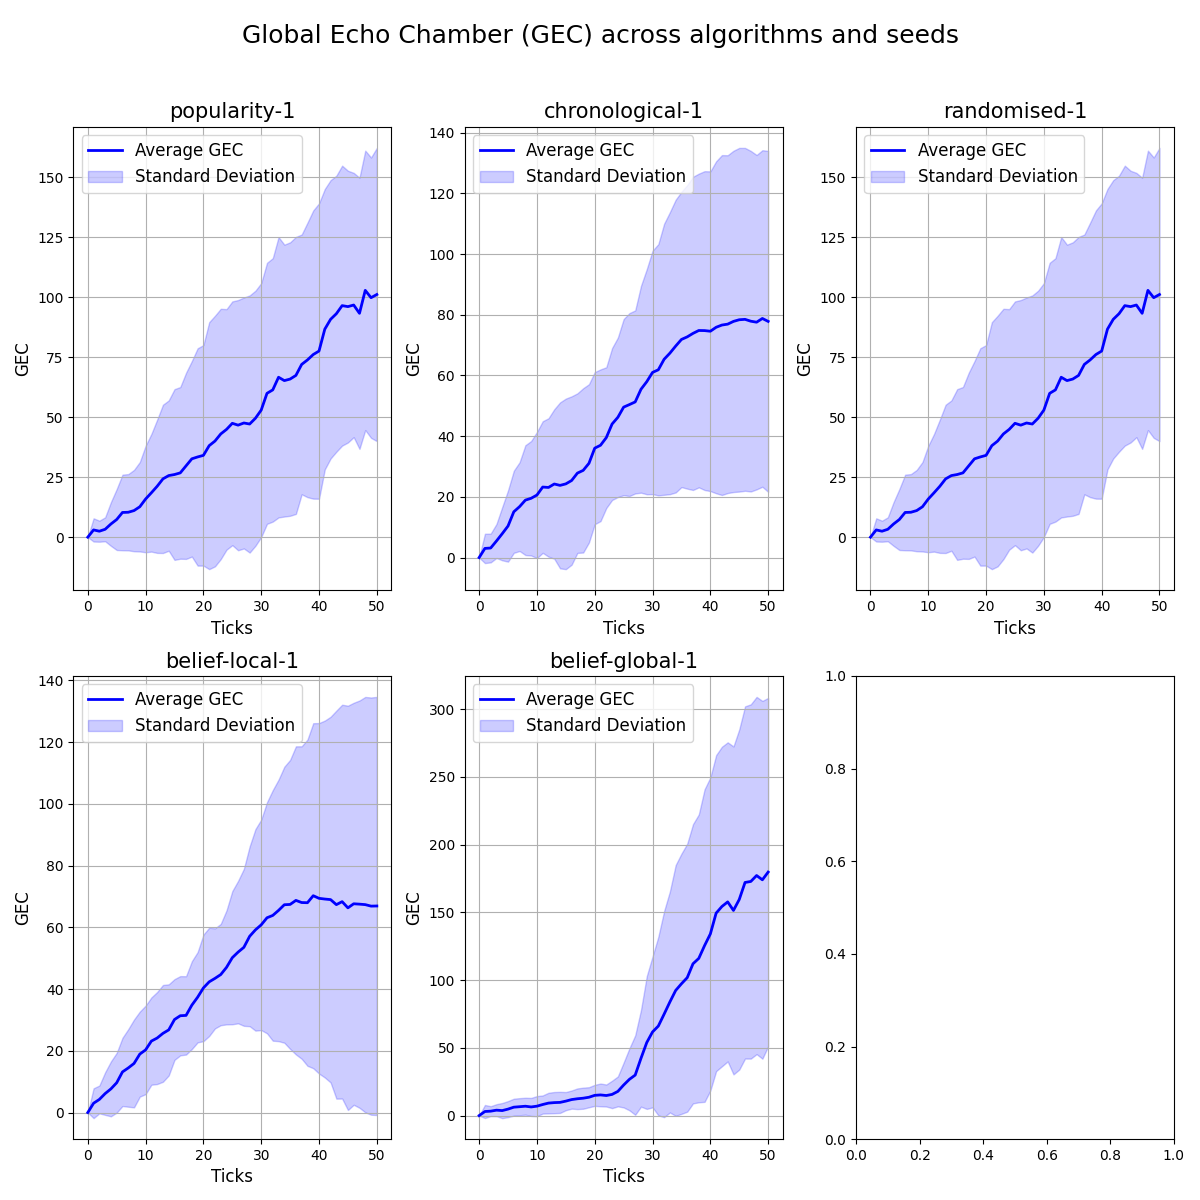
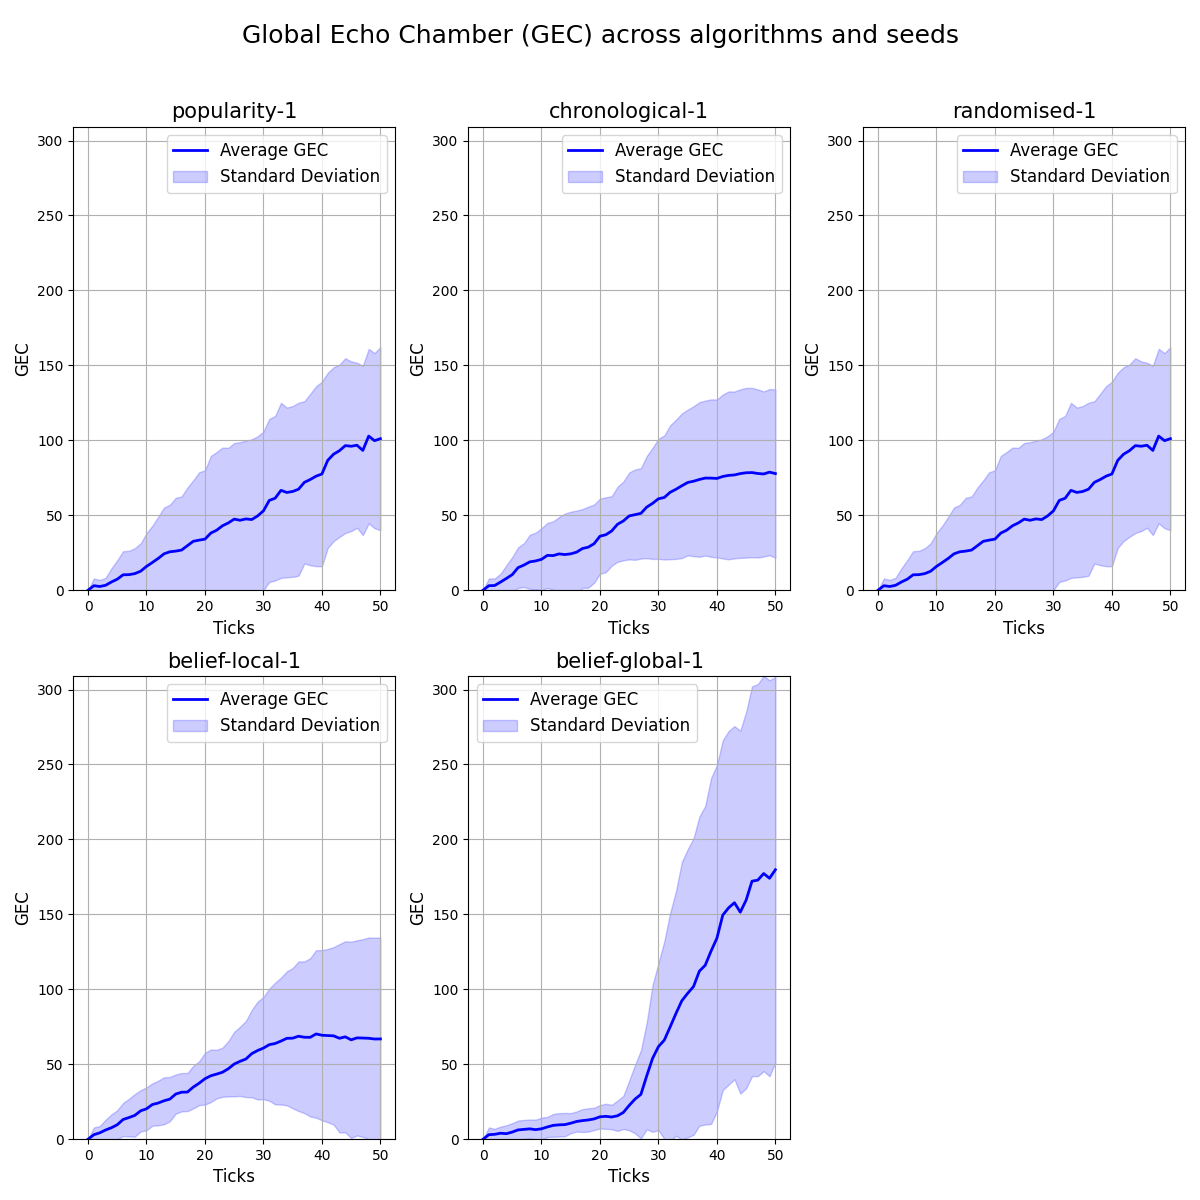
Python files and some graphs

diff --git a/analysis/belief-distribution.py b/analysis/belief-distribution.py
@@ -1,32 +1,76 @@
 import matplotlib.pyplot as plt
 import pandas as pd
+import numpy as np
 
-# SET THESE BEFORE RUNNING
-seed = ""
-algorithm = ""
-folder = f'../results/seed-{seed}/{algorithm}/'
+seeds = ["47822", "13523", "31238", "98424", "64001"]
 
-# Define the range of tick values
+# WHEN PICKING WHICH CHANGE THE FILE NAME
+# single algorithm
+algorithms = ["popularity-1", "chronological-1", "randomised-1", "belief-local-1", "belief-global-1"]
+
+# weighted algorithms
+# algorithms = ["belief-local-0.5-popularity-0.5", "belief-local-0.5-randomised-0.5", "belief-local-0.5-chronological-0.5",
+#               "belief-local-0.5-belief-global-0.5", "belief-global-0.5-popularity-0.5", "belief-global-0.5-randomised-0.5",
+#               "chronological-0.5-popularity-0.5", "chronological-0.5-randomised-0.5", "randomised-0.5-popularity-0.5", "all"]
+
+folder_base = f"../results/"
 ticks = range(10, 51, 10)  # 10, 20, 30, 40, 50
 
-# Create a figure with subplots (2 rows, 3 columns)
-fig, axes = plt.subplots(2, 3, figsize=(10, 5))  # 2 rows, 3 columns
-axes = axes.flatten()  # Flatten the 2D array of axes to make it easier to index
+# Create a figure and subplots for each algorithm (one row per algorithm)
+n_algorithms = len(algorithms)
+n_ticks = len(ticks)
+fig, axes = plt.subplots(n_algorithms, n_ticks,
+                         figsize=(15, 5 * n_algorithms))  # 1 row per algorithm, multiple columns for ticks
+axes = axes.flatten()  # Flatten the axes to make indexing easier
 
-# Loop through each file for the corresponding ticks
-for i, tick in enumerate(ticks):
-    file = folder + f"belief-{tick}.csv"
-    df = pd.read_csv(file)  # Assuming tab-separated values
+# Initialize tick index
+tick_idx = 0
 
-    # Plot on the corresponding axis
-    axes[i].hist(df['belief'], bins=10, color='skyblue', edgecolor='black')
-    axes[i].set_title(f'{tick} ticks')
-    axes[i].set_xlabel('Belief Value')
-    axes[i].set_ylabel('Frequency')
-    axes[i].grid(False)
+# Loop through each algorithm
+for algorithm in algorithms:
+    # Loop through each tick
+    for i, tick in enumerate(ticks):
+        all_beliefs = []
 
-fig.suptitle(f'[{seed}] {algorithm}', fontsize=16)
-plt.tight_layout()
+        # Loop through seeds and load the data for the current algorithm and tick
+        for seed in seeds:
+            folder = f'{folder_base}/seed-{seed}/{algorithm}/'
+            file = folder + f"belief-{tick}.csv"
+            df = pd.read_csv(file)
+
+            # Collect belief data
+            all_beliefs.append(df['belief'].values)
+
+        # Convert to a NumPy array for easier manipulation
+        all_beliefs = np.array(all_beliefs)
+
+        # Calculate the average belief distribution across seeds
+        avg_beliefs = np.mean(all_beliefs, axis=0)
+
+        # Plot on the corresponding subplot (for the current algorithm and tick)
+        ax = axes[tick_idx]
+        ax.hist(avg_beliefs, bins=10, color='skyblue', edgecolor='black')
+        ax.set_title(f'{tick} ticks', fontsize=12)
+        ax.set_xlabel('Belief Value', fontsize=10)
+        ax.set_ylabel('Frequency', fontsize=10)
+        ax.grid(False)
+
+        # Increment the tick index
+        tick_idx += 1
+
+    # After finishing all ticks for this algorithm, add a title for the algorithm itself
+    # We calculate the position of the algorithm title in the middle of the row of subplots
+    start_idx = tick_idx - n_ticks  # The starting index of this algorithm's subplots
+    end_idx = tick_idx - 1  # The last subplot index for this algorithm
+    algorithm_title_pos = (start_idx + end_idx) / 2  # The middle subplot index for title placement
+    axes[int(algorithm_title_pos)].set_title(f'{algorithm}', fontsize=14, fontweight='bold', loc='center')
+
+# Add a super title and adjust layout
+fig.suptitle(f'Belief Distributions Across Algorithms and Seeds', fontsize=16)
+plt.tight_layout(rect=[0, 0, 1, 0.96])  # To make room for the super title
+
+# Save the figure
+plt.savefig(f'{folder_base}/single-algo-belief_dist.png')
 
 # Show the plot
-plt.savefig(folder + "belief-distribution.png")
+plt.show()

diff --git a/analysis/gec.py b/analysis/gec.py
@@ -4,12 +4,21 @@ import matplotlib.pyplot as plt
 from io import StringIO
 
 seeds = ["47822", "13523", "31238", "98424", "64001"]
+
+# WHEN PICKING WHICH CHANGE THE FILE NAME
+# a) single algorithm
 algorithms = ["popularity-1", "chronological-1", "randomised-1", "belief-local-1", "belief-global-1"]
 
+# OR b) weighted algorithms
+# algorithms = ["belief-local-0.5-popularity-0.5", "belief-local-0.5-randomised-0.5", "belief-local-0.5-chronological-0.5",
+#               "belief-local-0.5-belief-global-0.5", "belief-global-0.5-popularity-0.5", "belief-global-0.5-randomised-0.5",
+#               "chronological-0.5-popularity-0.5", "chronological-0.5-randomised-0.5", "randomised-0.5-popularity-0.5", "all"]
+
+folder_base = "../results/"
 # Determine the number of rows and columns for the grid
 n_algorithms = len(algorithms)
-n_cols = 3  
-n_rows = (n_algorithms + n_cols - 1) // n_cols  
+n_cols = 3  # Number of columns in the grid
+n_rows = (n_algorithms + n_cols - 1) // n_cols  # Calculate the required number of rows
 
 # Create a figure and subplots (a grid of subplots)
 fig, axes = plt.subplots(n_rows, n_cols, figsize=(12, 6 * n_rows))
@@ -17,13 +26,17 @@ fig, axes = plt.subplots(n_rows, n_cols, figsize=(12, 6 * n_rows))
 # Flatten the axes array if it's a 2D grid
 axes = axes.flatten()
 
+# Initialize lists to store mean and std values for determining global y-limits
+all_gec_means = []
+all_gec_std = []
+
 # Loop through each algorithm and its corresponding axis
 for ax, algorithm in zip(axes, algorithms):
     gec_runs = []
 
     # Read and process the GEC data for each algorithm
     for seed in seeds:
-        folder = f'../results/seed-{seed}/{algorithm}/'
+        folder = f'{folder_base}/seed-{seed}/{algorithm}/'
         with open(folder + "gec.csv", 'r') as file:
             lines = file.readlines()
 
@@ -46,6 +59,10 @@ for ax, algorithm in zip(axes, algorithms):
     gec_std = np.std(gec_data, axis=0)
     gec_mean = np.mean(gec_data, axis=0)
 
+    # Append the mean and std values to the lists for determining global y-limits
+    all_gec_means.append(gec_mean)
+    all_gec_std.append(gec_std)
+
     # Plot on the corresponding axis
     ax.plot(range(0, 51), gec_mean, label="Average GEC", color="blue", linewidth=2)
     ax.fill_between(
@@ -62,12 +79,28 @@ for ax, algorithm in zip(axes, algorithms):
     ax.grid(True)
     ax.legend(fontsize=12)
 
+# Convert lists to numpy arrays for easier manipulation
+all_gec_means = np.array(all_gec_means)
+all_gec_std = np.array(all_gec_std)
+
+# Calculate global y-limits
+y_min = 0
+y_max = np.max(all_gec_means + all_gec_std)  # Max of gec_mean + gec_std
+
+# Set the same y-limits for all subplots
+for ax in axes:
+    ax.set_ylim(y_min, y_max)  # Set y-axis limits based on calculated values
+
+# Remove any unused subplots (axes that don't correspond to an algorithm)
+for i in range(n_algorithms, len(axes)):
+    fig.delaxes(axes[i])
+
 # Adjust layout to prevent overlap
 plt.suptitle("Global Echo Chamber (GEC) across algorithms and seeds", fontsize=18)
 plt.tight_layout(rect=[0, 0, 1, 0.96])
 
 # Save the figure with all subplots
-plt.savefig('../results/single-algo-gec.png')
+plt.savefig(f'{folder_base}/single-algo-gec.png')
 
 # Show the plot
 plt.show()

diff --git a/analysis/sd-opinion-sd.py b/analysis/sd-opinion-sd.py
@@ -1,0 +1,91 @@
+import pandas as pd
+import numpy as np
+import matplotlib.pyplot as plt
+from pathlib import Path
+
+seeds = ["47822", "13523", "31238", "98424", "64001"]
+
+# WHEN PICKING WHICH CHANGE THE FILE NAME
+# a) single algorithm
+algorithms = ["popularity-1", "chronological-1", "randomised-1", "belief-local-1", "belief-global-1"]
+
+# OR b) weighted algorithms
+# algorithms = ["belief-local-0.5-popularity-0.5", "belief-local-0.5-randomised-0.5", "belief-local-0.5-chronological-0.5",
+#               "belief-local-0.5-belief-global-0.5", "belief-global-0.5-popularity-0.5", "belief-global-0.5-randomised-0.5",
+#               "chronological-0.5-popularity-0.5", "chronological-0.5-randomised-0.5", "randomised-0.5-popularity-0.5", "all"]
+
+ticks = [10, 20, 30, 40, 50]
+folder_base = "../results/"
+
+# Initialize results container
+algorithm_results = {}
+
+# Loop through algorithms
+for algorithm in algorithms:
+    tick_results = {tick: [] for tick in ticks}
+
+    # Loop through seeds
+    for seed in seeds:
+        folder = Path(f"{folder_base}/seed-{seed}/{algorithm}/")
+
+        # Loop through tick files
+        for tick in ticks:
+            file = folder / f"opinion-sd-{tick}.csv"
+
+            # Read the data
+            if file.exists():
+                df = pd.read_csv(file)
+                tick_results[tick].append(df['opinion-sd'].values)
+
+    # Calculate mean and std for each tick
+    algorithm_results[algorithm] = {
+        tick: {
+            "mean": np.mean(tick_results[tick], axis=0),
+            "std": np.std(tick_results[tick], axis=0)
+        }
+        for tick in ticks
+    }
+
+# Calculate the number of rows needed for 3 columns
+ncols = 3
+nrows = int(np.ceil(len(algorithms) / ncols))
+
+# Create the figure and axes
+fig, axes = plt.subplots(nrows=nrows, ncols=ncols, figsize=(16, nrows * 4), sharex=True)
+fig.suptitle("Opinion SD Across Seeds for Each Algorithm", fontsize=16, fontweight='bold')
+
+# Flatten the axes for easier iteration (handles cases where nrows > 1)
+axes = axes.flatten()
+
+# Plot data for each algorithm
+for i, (algorithm, results) in enumerate(algorithm_results.items()):
+    means = [results[tick]["mean"].mean() for tick in ticks]  # Mean across turtles
+    stds = [results[tick]["std"].mean() for tick in ticks]    # Mean std across turtles
+
+    ax = axes[i]
+    ax.plot(ticks, means, label=f"{algorithm} Mean", marker='o', color='blue')
+    ax.fill_between(
+        ticks,
+        np.array(means) - np.array(stds),
+        np.array(means) + np.array(stds),
+        color='blue',
+        alpha=0.2,
+        label=f"{algorithm} Mean ± SD"
+    )
+    ax.set_title(f"{algorithm}", fontsize=14)
+    ax.set_ylim(0, 1)
+    ax.set_xlabel("Ticks", fontsize=12)
+    ax.set_ylabel("Opinion SD", fontsize=12)
+    ax.set_xticks(ticks)
+    ax.legend()
+    ax.grid(False)
+
+# Remove any empty subplots (if len(algorithms) is not a multiple of 3)
+for j in range(i + 1, len(axes)):  # `i` will now always be defined
+    fig.delaxes(axes[j])
+
+# Adjust layout
+plt.tight_layout(rect=[0, 0, 1, 0.96])
+plt.savefig(f'{folder_base}/weighted-algo-sd-opinion-sd.png')
+plt.show()
+

diff --git a/analysis/purity.py b/analysis/purity.py
@@ -1,0 +1,82 @@
+import pandas as pd
+import numpy as np
+import matplotlib.pyplot as plt
+from io import StringIO
+
+seeds = ["47822", "13523", "31238", "98424", "64001"]
+
+# WHEN PICKING WHICH CHANGE THE FILE NAME
+# a) single algorithm
+algorithms = ["popularity-1", "chronological-1", "randomised-1", "belief-local-1", "belief-global-1"]
+
+# OR b) weighted algorithms
+# algorithms = ["belief-local-0.5-popularity-0.5", "belief-local-0.5-randomised-0.5", "belief-local-0.5-chronological-0.5",
+#               "belief-local-0.5-belief-global-0.5", "belief-global-0.5-popularity-0.5", "belief-global-0.5-randomised-0.5",
+#               "chronological-0.5-popularity-0.5", "chronological-0.5-randomised-0.5", "randomised-0.5-popularity-0.5", "all"]
+
+folder_base = '../results/'
+
+# Initialize container for results
+belief_purity_results = {}
+
+# Loop through algorithms to process data
+for algorithm in algorithms:
+    purity_data_list = []
+
+    for seed in seeds:
+        folder = f'{folder_base}/seed-{seed}/{algorithm}/'
+
+        # Process Belief Purity data
+        with open(folder + "belief-purity.csv", 'r') as file:
+            lines = file.readlines()
+        data_start_line = next(i for i, line in enumerate(lines) if line.strip().startswith('"x","y"'))
+        purity_df = pd.read_csv(StringIO(''.join(lines[data_start_line:])))
+        purity_data_list.append({
+            'mean': purity_df['y'].values,
+            '+sd': purity_df['y.1'].values,
+            '-sd': purity_df['y.2'].values,
+        })
+
+    # Average the purity data across seeds
+    belief_purity_results[algorithm] = {
+        'mean': np.mean([p['mean'] for p in purity_data_list], axis=0),
+        '+sd': np.mean([p['+sd'] for p in purity_data_list], axis=0),
+        '-sd': np.mean([p['-sd'] for p in purity_data_list], axis=0),
+    }
+
+# Plot the averaged results in subplots
+n_algorithms = len(algorithms)
+n_cols = 3  # Number of columns for subplots
+n_rows = (n_algorithms + n_cols - 1) // n_cols  # Calculate rows based on total algorithms
+
+fig, axes = plt.subplots(n_rows, n_cols, figsize=(15, 5 * n_rows), sharex=True, sharey=True)
+axes = axes.flatten()  # Flatten the axes array for easy indexing
+
+# Plot Belief Purity for each algorithm
+for i, (algorithm, data) in enumerate(belief_purity_results.items()):
+    ax = axes[i]
+    ticks = np.arange(len(data['mean']))
+    ax.plot(ticks, data['mean'], label='Mean', linewidth=2, color='blue')
+    ax.fill_between(
+        ticks,
+        data['+sd'],
+        data['-sd'],
+        alpha=0.2,
+        color='blue',
+        label='Mean ± SD'
+    )
+    ax.set_title(algorithm, fontsize=12)
+    ax.set_xlabel("Ticks", fontsize=10)
+    ax.set_ylabel("Belief Purity", fontsize=10)
+    ax.legend(fontsize=8)
+    ax.grid(True)
+
+# Remove unused axes if algorithms < n_cols * n_rows
+for j in range(i + 1, len(axes)):
+    fig.delaxes(axes[j])
+
+# Set the main title
+fig.suptitle("Belief Purity Averaged Across Seeds (Subplots by Algorithm)", fontsize=16)
+plt.tight_layout(rect=[0, 0, 1, 0.96])
+plt.savefig(f'{folder_base}/single-algo-belief-purity.png')
+plt.show()

diff --git a/analysis/opinion-sd.py b/analysis/opinion-sd.py
@@ -1,9 +1,8 @@
 import matplotlib.pyplot as plt
 import pandas as pd
 
-# SET THESE BEFORE RUNNING
-seed = ""
-algorithm = ""
+seed = "47822"
+algorithm = "belief-local-1"
 folder = f'../results/seed-{seed}/{algorithm}/'
 
 # Define the range of tick values
@@ -30,3 +29,4 @@ plt.tight_layout()
 
 # Show the plot
 plt.savefig(folder + "opinion-sd.png")
+plt.show()
